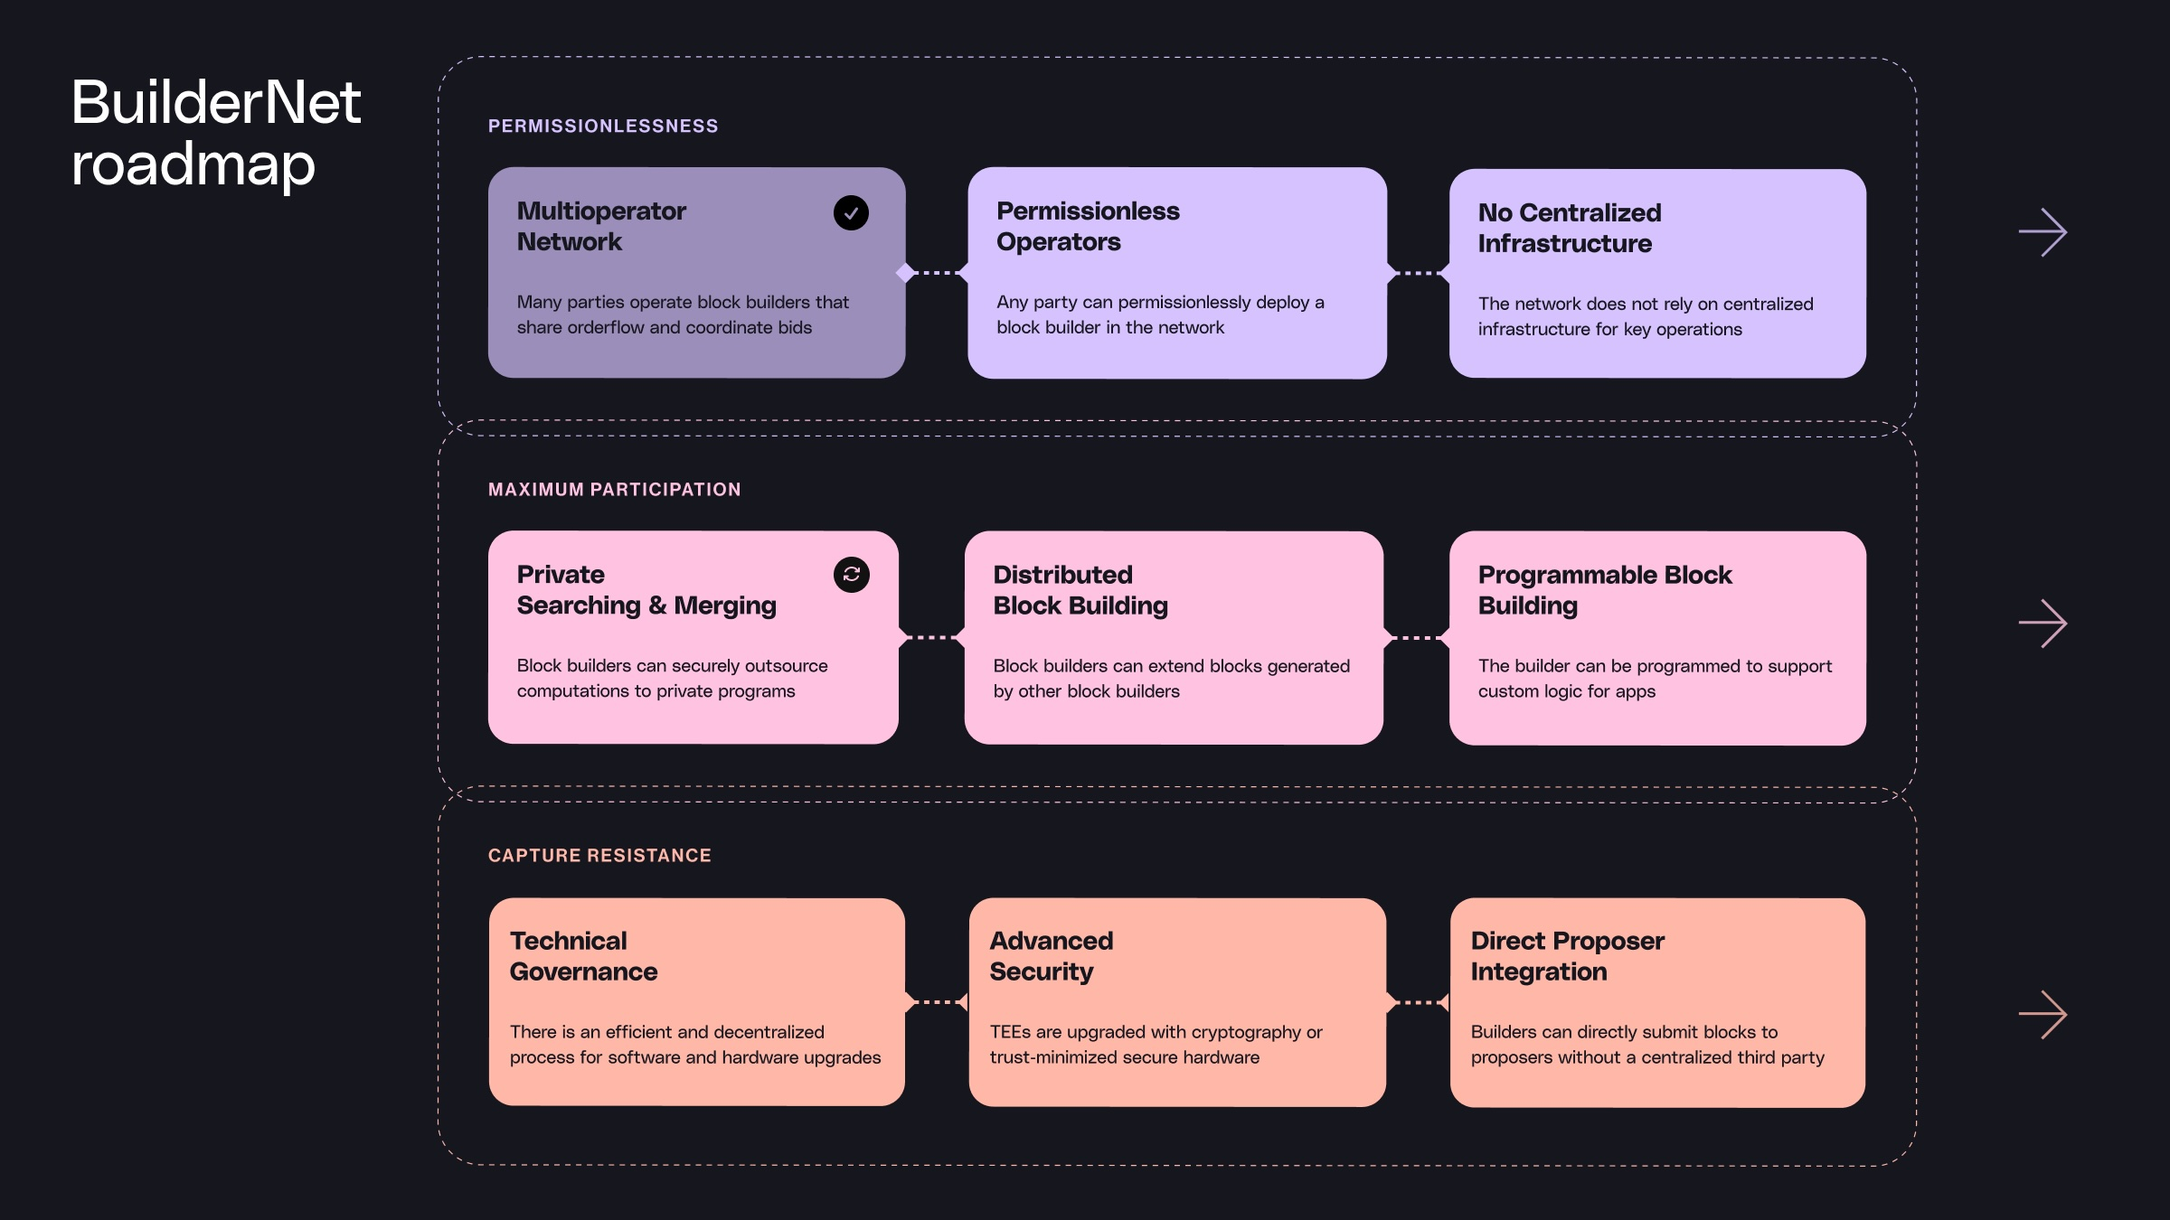
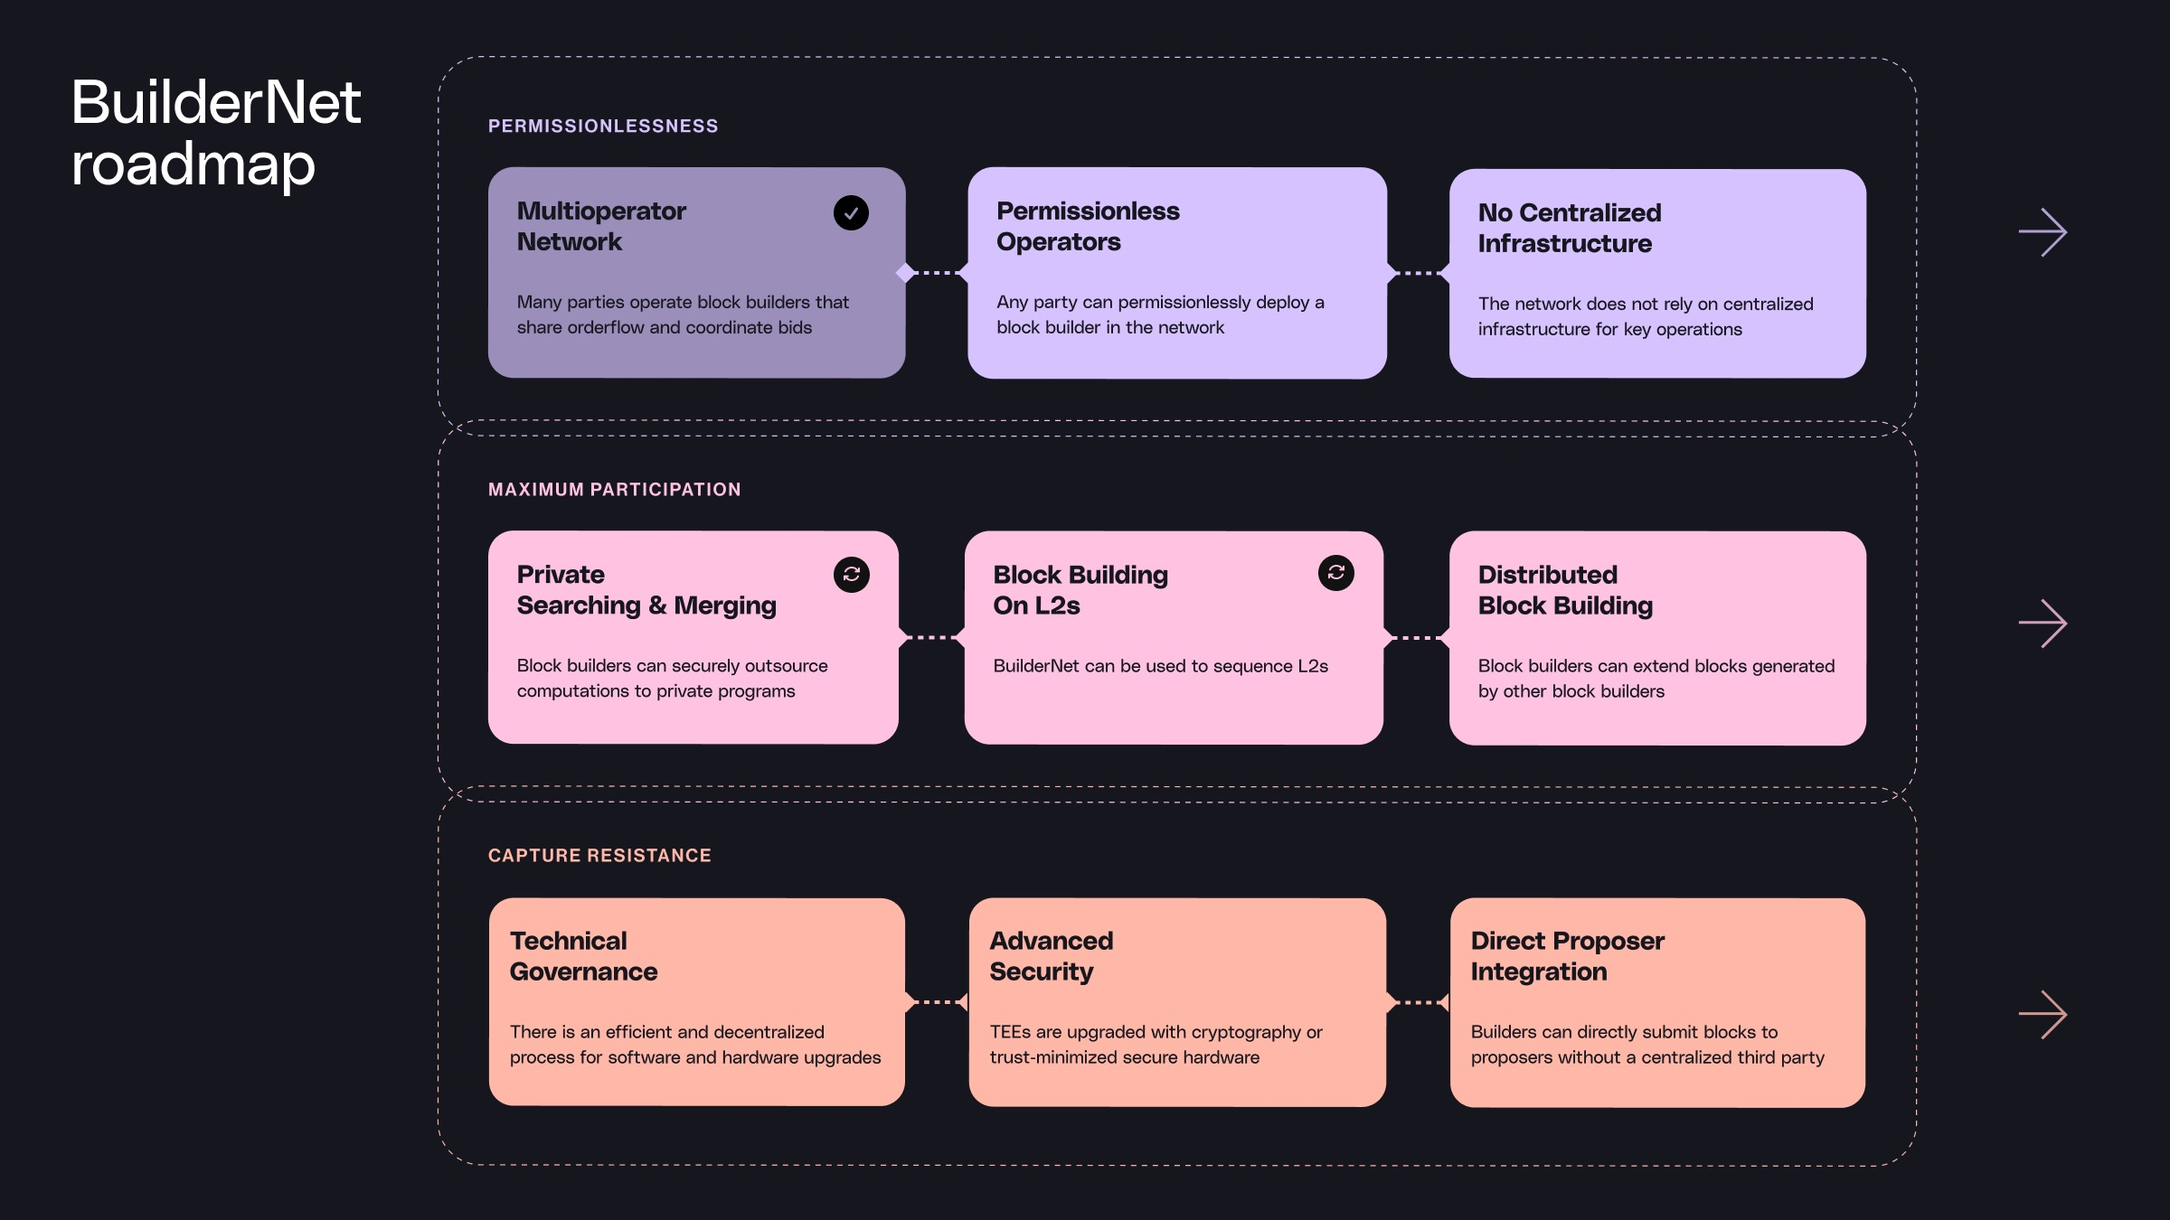
Add blog post introducing buildernet (#1)

Changed region(s): [[0.6875, 0.4667, 0.8438, 0.5911], [0.4375, 0.4667, 0.625, 0.5911], [0.5938, 0.4356, 0.625, 0.4978]]

diff --git a/blog/2024-11-18-introducing-buildernet.md b/blog/2024-11-18-introducing-buildernet.md
@@ -6,14 +6,118 @@ hide_table_of_contents: false
 slug: introducing-buildernet
 ---
 
-Lorem ipsum
+Introducing BuilderNet — A decentralized block building network for Ethereum that runs on TEEs and shares MEV with the community.
 
 ![Cover image](/img/buildernet-cover-photo.jpg)
 
 <!-- truncate -->
 
-Lorem ipsum
+Two parties build 90% of blocks on Ethereum today. This centralization of power and its impact on the application and protocol layer directly threatens Ethereum’s resilience and neutrality.
 
-## Lorem ipsum
+BuilderNet is a decentralized path forward. It aims to **neutralize exclusive orderflow deals, enhance Ethereum’s censorship resistance, and accelerate decentralization across rollups and apps.**
 
-Lorem ipsum
+The first release of BuilderNet is jointly operated by [Flashbots](https://www.flashbots.net/), [Beaverbuild](https://beaverbuild.org/), and [Nethermind](https://www.nethermind.io/). To accelerate decentralization in block building, **Beaverbuild and Flashbots will integrate their centralized block builders with BuilderNet** in the coming months. In the future, BuilderNet will also be available as a drop-in solution for decentralized sequencing on L2s through [Rollup-Boost](https://writings.flashbots.net/introducing-rollup-boost).
+
+The first release of BuilderNet is one step in a larger plan to decentralize block building across Ethereum. We’re sharing our progress and goals in the open to invite the community to join us.
+
+## Why decentralize block building
+
+Public blockchains like Ethereum promise to be the best global platform for finance and innovation. They provide a highly resilient ledger that can be permissionlessly updated by any user or app. In order to add new blocks to this ledger, they need a way to fairly resolve competition and optimize for complex coincidences of wants across the world. Over time it has become clear that the best way to handle this task is to outsource it to a sophisticated external party — the block builder.
+
+**Block builders extend Ethereum with a more performant and feature-rich platform for apps.** They introduce private mempools that [improve prices in DeFi](https://0x.org/post/measuring-the-impact-of-hidden-dex-costs), offer tools to reduce transaction costs, and can be programmed off-chain to support a wide range of intents. Today these features power everything from whitehat rescues via [Flashbots](https://noteforms.com/forms/flashbots-whitehat-intake-form?notionforms=1) to gasless transactions in [Bitget](https://www.bitget.com/) wallet to revenue sharing in oracle feeds like [Oval](https://uma.xyz/oval). And they drive a [4x increase in execution layer rewards](https://ethresear.ch/t/is-it-worth-using-mev-boost/19753) for validators in [90% of Ethereum blocks](https://mevboost.pics/).
+
+Block builders benefit the protocol as well. By handling complex tasks off-chain and making the best block freely available, they relieve the pressure for validators to perform sophisticated tasks and keep the core protocol [decentralized](https://ethcc.io/archives/a-keynote-with-vitalik-buterin) and lightweight. They also provide Ethereum with a sophisticated external market to execute its roadmap — from protecting validators from MEV, to helping rollups scale through [larger blobs](https://ethereum.org/en/roadmap/danksharding/), to supporting coprocessing, [statelessness](https://ethereum.org/en/roadmap/statelessness/), and real-time proving in the future.
+
+But outsourcing sophisticated tasks to a separate market does not address the root issue of centralization within those roles, nor does it fully maximize the productive benefits that block builders can bring to Ethereum. We must proactively design new structures that coordinate between sophisticated off-chain actors, and effectively leverage their inherent economies of scale, to create the most robust and efficient system for advancing public blockchains. In other words, **we must decentralize block building itself.**
+
+Decentralizing block building will make Ethereum the strongest foundation for apps like DeFi that need a neutral platform to coordinate financial activities around the world. By distributing the monolithic process of block building across a large network, we can prevent systemic [chokepoints](https://bitcoinmagazine.com/print/operation-choke-point-2-0-how-u-s-regulators-fight-bitcoin-with-financial-censorship-) that invite censorship and rent extraction from users. This in turn will make it possible for more parties around the world to coordinate instead of competing with each other, creating more emergent value that can be internalized as better prices for users, or support the apps and wallets that onboard people to crypto.
+
+## Why now
+
+90% of blocks on Ethereum are [built](https://www.relayscan.io/) by just two parties today. Concentration in the block building market has tripled since 2022, when Flashbots first introduced a vision to decentralize block building with [SUAVE](https://writings.flashbots.net/the-future-of-mev-is-suave). This trend has accelerated in the past year as major orderflow providers made **exclusive orderflow deals with block builders** to internalize their MEV. These opaque off-chain agreements have entrenched a duopoly in the builder market and created an unequal playing field for apps and users who do not have access to the same [preferential treatment](https://www.binance.com/en/square/post/11663492262641) — eroding the overall neutrality, censorship resistance, and resilience of Ethereum. **It is abundantly clear that the future of block building will be centralized, unless we act now.**
+
+In anticipation of these challenges, Flashbots and collaborators have spent the past 2 years experimenting with different ways to decentralize block building — from programmable privacy (e.g. [MEV-Share](https://docs.flashbots.net/flashbots-mev-share/introduction) and [TEE searching](https://collective.flashbots.net/t/searching-in-tdx/3902)), to distributed block building (e.g. [MEVM](https://writings.flashbots.net/mevm-suave-centauri-and-beyond)), to secure hardware and cryptography (e.g. [TEE block builders](https://writings.flashbots.net/block-building-inside-sgx), [TEE relays](https://collective.flashbots.net/t/tee-boost/3741), [MPC](https://writings.flashbots.net/backrunning-private-txs-MPC) and [FHE](https://writings.flashbots.net/blind-arbitrage-fhe) backrunning). Recent improvements in the performance and application of secure hardware in MEV show that **it is now possible to implement a decentralized block builder that is sufficiently performant and secure**.
+
+This is a unique window of opportunity. As Ethereum considers [changing the protocol to increase its censorship resistance](https://vitalik.eth.limo/general/2024/10/20/futures3.html), we believe it must also invest in decentralizing the power structures in block building that affect those properties. Addressing this challenge from both angles will complement proposer-level changes like inclusion lists and add more defense in depth.
+
+## Introducing BuilderNet
+
+**Today we are excited to introduce a new step in this journey to decentralize block building — BuilderNet.**
+
+BuilderNet is a new way for many parties to collaborate in building blocks. It creates an open and neutral alternative to negative-sum orderflow games, and handles complex boilerplate activities that make it difficult and expensive to participate in block building today. This frees builders, searchers, and apps to focus on driving efficiency, finding new alpha, and innovating on user value at the edges. We believe **this will transform the block building market into a positive-sum game that opens the door to new kinds of innovation and collaboration on Ethereum.**
+
+To advance these goals, the first release of BuilderNet introduces a “multioperator” system where many parties can operate the same block builder for the first time. Each operator runs an instance of an [open source builder](https://github.com/flashbots/rbuilder) in a Trusted Execution Environment (TEE), which orderflow providers (like apps, wallets, users, and searchers) can verify and send encrypted orderflow to. Each instance shares the orderflow it receives with other instances in the network and submits blocks to MEV-Boost relays as usual. After a BuilderNet instance wins a block, refunds are calculated and distributed back to orderflow providers based on the value they added to the block.
+
+**A full description and technical documentation is [here](https://buildernet.github.io/docs).** The first release of BuilderNet is operated by Flashbots, Beaverbuild, and Nethermind.
+
+![Multioperator release](/img/multioperator-release.jpg)
+
+## BuilderNet for users, wallets, and apps
+
+Apps and wallets want to internalize their MEV and give their users a cheap, easy way to transact. Today it is common for apps and wallets to make deals with builders or aggregators that reclaim fees on their behalf. BuilderNet can meet these needs in a way that is more transparent, permissionless, and democratic than the opaque custom orderflow deals in the market today.
+
+To this end, the first release of BuilderNet uses an open source [refund rule](https://docs.flashbots.net/flashbots-auction/advanced/gas-fee-refunds#how-are-refunds-calculated) to compensate all users for their contribution to its blocks. In the future we intend to upgrade this rule to ensure it accommodates each use case, make all aspects of calculating and receiving refunds fully permissionless, and ensure all participants in the network (e.g. TEE operators) are appropriately compensated for their contributions as well.
+
+→ Users, wallets, and apps can access refunds by sending transactions to [Protect](https://protect.flashbots.net/). More data is available [here](https://dune.com/flashbots/flashbots-protect).
+
+## BuilderNet for searchers and solvers
+
+It is impossible to land a bundle on Ethereum today without trusting a third party or running your own block builder. BuilderNet changes this. The network runs in Trusted Execution Environments (TEEs) to prevent operators from leaking data or tampering with their code. It also provides refunds to every searcher that contributes to its blocks. **Together these features create an even playing field where independent searchers can receive the same financial outcomes and privacy that integrated searcher-builders do today.**
+
+Ultimately we believe that the most efficient block builder will be a distributed process where many specialized agents participate and coordinate off-chain. BuilderNet is designed to accelerate this future by solving the core challenges of aggregating orderflow and creating a safe platform for coordination — so that searchers, solvers, and other off-chain agents can focus on their strategies and alpha.
+
+→ Searchers can get refunds and privacy by [sending](https://buildernet.org/docs/how-to-participate) bundles to BuilderNet today. For more, read the [FAQ](https://collective.flashbots.net/t/refund-rule-wat-dis-how-to-and-faq/4049), search your refunds in the [dashboard](https://app.hex.tech/9eb1e790-53f7-4c16-be76-4a22c1aa7d17/app/0c2d34ef-1304-481a-b3d6-b773ce9e0e19/latest), and join other experiments [here](https://collective.flashbots.net/t/searching-in-tdx/3902).
+
+## BuilderNet for validators
+
+Block builders do not pay the full value of their blocks to validators today. They minimize their bids to capture a profit and pay for access to exclusive orderflow — retaining close to [1,000 ETH per week](https://www.relayscan.io/builder-profit?t=7d), almost all of which is refunded to exclusive orderflow providers. Given that this value is already withheld from validators, **we do not expect that BuilderNet will significantly impact their economics at launch**.
+
+Over time, we do expect that BuilderNet will accelerate the transition to a new equilibrium where orderflow providers retain a greater percentage of the MEV they produce. We believe that this transition towards a simpler, cheaper gas market is both inevitable and essential to making Ethereum the best place to transact. We also believe it must be handled with maximum transparency and collaboration between all affected parties — through a decentralized, open source, community builder. We intend to monitor these dynamics and will collaborate with validators to ensure BuilderNet remains fair and balanced over time.
+
+→ Validators can read more about the current refund rule [here](https://buildernet.org/docs/refunds) and share thoughts [here](https://collective.flashbots.net/). Teams working on BuilderNet are also actively collaborating with teams working on features like preconfirmations that may be of interest to validators.
+
+## BuilderNet for L2s
+
+A decentralized block builder can accelerate the Ethereum roadmap in many ways — not only on L1, but also on L2s. We believe it’s essential for BuilderNet to support the needs of rollups as users and financial activity increasingly migrate to those new domains, and we’ve designed it with this goal from the start.
+
+**Outsourcing block building to BuilderNet provides rollups with a highly available and resilient sequencer and accelerates their decentralization roadmap without major protocol changes on L1 or L2**. In doing so, rollups can offer a more fair, global platform for DeFi and other apps that require strong censorship resistance properties. BuilderNet also gives rollups a straightforward way to redistribute MEV or enforce [verifiable ordering rules](https://docs.unichain.org/whitepaper.pdf), which can improve the economics and UX of their apps.
+
+BuilderNet launches on L1 today. In the future we’re excited to bring these benefits and more to L2s through [Rollup-Boost](https://writings.flashbots.net/introducing-rollup-boost).
+
+## BuilderNet for block builders
+
+In addition to supporting BuilderNet as operators, **Beaverbuild and Flashbots will integrate their centralized builders with BuilderNet in the coming months.** This includes merging their software, infrastructure, and orderflow with the decentralized network.
+
+Today, Beaverbuild is beginning this process by running instances of their builder in TEEs. This will allow Beaverbuild to incrementally adopt TEEs and join the decentralized network with minimal disruption for its users. It also can provide a model to progressively decentralize and integrate other block builders with BuilderNet in the future.
+
+Tomorrow we believe that there will no longer be a discrete entity known as a “block builder” but rather a distributed process that produces blocks. The core boilerplate of block building will become a public utility which supports this decentralized network — involving today’s builders, searchers, and orderflow providers as well as new types of programs entirely. We invite each of these parties to join us in accelerating this future.
+
+## Roadmap
+
+The first release of BuilderNet is **just one step in a larger plan** to decentralize block building across Ethereum. We want to be clear about both the guarantees it offers today and its path to upgrade these guarantees over time.
+
+### Censorship resistance
+
+Each operator in BuilderNet chooses their own compliance policy. While they share all orderflow equally with other operators, they can choose to exclude transactions from certain addresses in their own blocks. This is an important step towards censorship resistance in block building because one operator can include transactions in their block even if another does not.
+
+At launch, BuilderNet is operated by multiple different parties with different compliance policies. This means that **its overall censorship resistance is greater than any individual centralized builder today, which strictly improves censorship resistance within the MEV-Boost market.**
+
+In the future, we intend to distribute the block building process in BuilderNet so that operators can extend each others’ blocks. In this model only one non-censoring operator would need to contribute to a block in order to prevent transactions from being censored even *within that block*. **This will make BuilderNet significantly more censorship resistant than the current MEV-Boost market is, or likely ever can be** — as each block will reflect the aggregate economic activity across the network, rather than the preferences or limitations of a single operator.
+
+### Architectural decentralization
+
+All block builders today are operated by centralized teams, which can be a point of failure, limitation, and control. BuilderNet makes it possible for many teams to operate instances of the same block builder.
+
+At launch, all orderflow sent to Flashbots will be shared with BuilderNet. This will strictly increase the number of teams that participate in building blocks for Flashbots users. As other teams like Beaverbuild follow suit, BuilderNet will similarly increase the number of teams that participate in building blocks for their users.
+
+But while BuilderNet can help increase architectural decentralization in certain aspects of the market today, the network itself is not fully decentralized at launch. Like all existing builders, BuilderNet relies on centralized infrastructure for functions like transaction ingress and data storage, and Operators currently need permission to join the network. **In future releases, we intend to remove these dependencies, make all roles permissionless, and decentralize technical governance of BuilderNet.**
+
+Finally, architectural decentralization in BuilderNet will allow it to generate more value than centralized builders are today. We intend to let operators [outsource](https://collective.flashbots.net/t/searching-in-tdx/3902) computations to private searching and bundle merging programs, which can permissionlessly yet confidentially execute strategies that improve the value of its blocks and capture MEV.
+
+![Roadmap](/img/buildernet-roadmap.jpg)
+
+This is an ambitious roadmap. We believe it is theoretically possible, practically tractable, and essential to build now.
+
+Learn more about BuilderNet and participate [here](https://buildernet.org/docs/). You can also reach out on Telegram (@sketsdever).
+
+*Thank you to Vitalik, Viktor Bunin, Jon Charbonneau, and Barnabe Monnot for their feedback on this post.*
